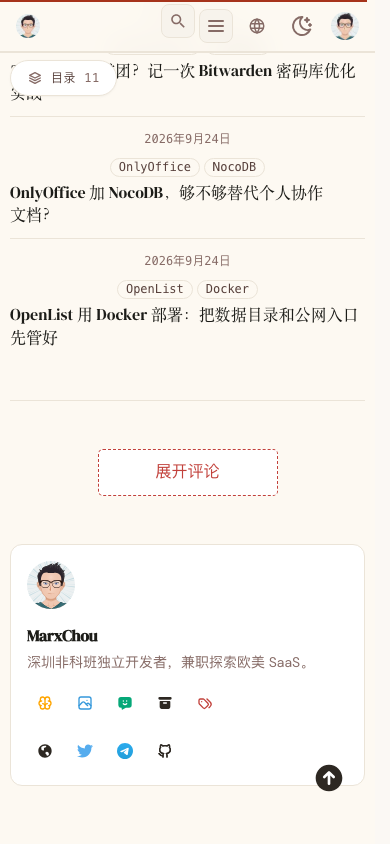
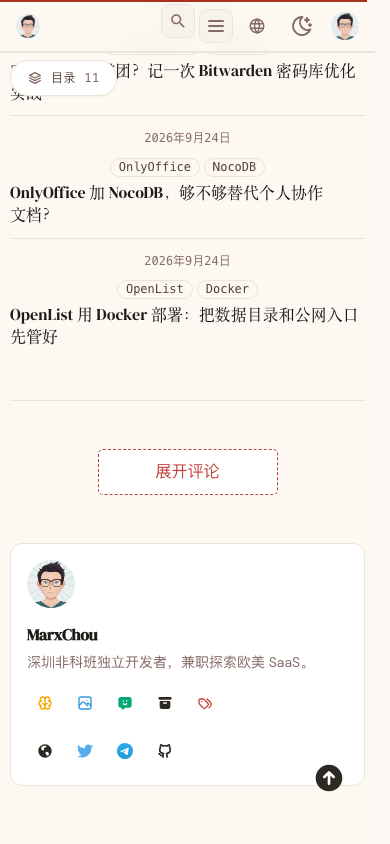
perf(comments): 抽屉交互按需加载，压回 page JS 预算

Changed region(s): [[0.0615, 0.6777, 0.2462, 0.7701], [0.3692, 0.154, 0.5846, 0.1848], [0.0308, 0.3697, 0.1538, 0.4313]]

diff --git a/src/scripts/comment-drawer.ts b/src/scripts/comment-drawer.ts
@@ -1,0 +1,106 @@
+/**
+ * M7-2a：移动评论抽屉的交互层。
+ *
+ * 只在 ≤640 首次点击「展开评论」时被动态 import；桌面内联评论区不会下载这段代码。
+ * 外壳、断点和 Waline 懒加载仍由 WalineComment.astro 持有，这里只负责开合、
+ * 遮罩/Esc、滚动锁与恢复、焦点回填/陷阱。这样评论组件的首屏 JS 不因抽屉变大。
+ */
+
+const MOBILE_QUERY = "(max-width: 640px)";
+const FOCUSABLE =
+    'a[href], button:not([disabled]), input:not([disabled]), textarea:not([disabled]), select:not([disabled]), [tabindex]:not([tabindex="-1"])';
+
+export interface CommentDrawer {
+    toggle: () => void;
+    reset: () => void;
+}
+
+interface DrawerOptions {
+    onShow: () => void;
+    onHide: () => void;
+}
+
+export function initCommentDrawer(options: DrawerOptions): CommentDrawer | null {
+    const drawer = document.getElementById("waline-drawer");
+    if (!drawer) return null;
+
+    let savedScrollY = 0;
+
+    function setClosed() {
+        drawer!.dataset.state = "closed";
+        drawer!.removeAttribute("role");
+        drawer!.removeAttribute("aria-modal");
+        drawer!.removeAttribute("aria-labelledby");
+        document.documentElement.classList.remove("comment-drawer-open");
+    }
+
+    function close(opts: { restoreFocus?: boolean; restoreScroll?: boolean } = {}) {
+        const wasOpen = drawer!.dataset.state === "open";
+        setClosed();
+        options.onHide();
+        if (!wasOpen) return;
+        if (opts.restoreScroll !== false) window.scrollTo(0, savedScrollY);
+        if (opts.restoreFocus !== false) {
+            document.getElementById("waline-toggle")?.focus({ preventScroll: true });
+        }
+    }
+
+    function open() {
+        if (drawer!.dataset.state === "open") return;
+        savedScrollY = window.scrollY;
+        drawer!.dataset.state = "open";
+        drawer!.setAttribute("role", "dialog");
+        drawer!.setAttribute("aria-modal", "true");
+        drawer!.setAttribute("aria-labelledby", "waline-drawer-title");
+        document.documentElement.classList.add("comment-drawer-open");
+        options.onShow();
+        drawer!
+            .querySelector<HTMLButtonElement>(".comment-drawer__close")
+            ?.focus({ preventScroll: true });
+    }
+
+    drawer.querySelectorAll<HTMLElement>("[data-drawer-dismiss]").forEach((el) => {
+        el.addEventListener("click", () => close());
+    });
+
+    // 焦点陷阱：Tab / Shift+Tab 在抽屉内循环。
+    drawer.addEventListener("keydown", (event) => {
+        if (event.key !== "Tab" || drawer.dataset.state !== "open") return;
+        const focusables = Array.from(drawer.querySelectorAll<HTMLElement>(FOCUSABLE)).filter(
+            (el) => el.offsetWidth > 0 || el.offsetHeight > 0,
+        );
+        if (focusables.length === 0) return;
+        const first = focusables[0];
+        const last = focusables[focusables.length - 1];
+        if (event.shiftKey && document.activeElement === first) {
+            event.preventDefault();
+            last.focus();
+        } else if (!event.shiftKey && document.activeElement === last) {
+            event.preventDefault();
+            first.focus();
+        }
+    });
+
+    document.addEventListener("keydown", (event) => {
+        if (event.key !== "Escape" || drawer.dataset.state !== "open") return;
+        event.preventDefault();
+        close();
+    });
+
+    // 视口跨过断点：桌面不该残留 fixed 遮罩。
+    window.matchMedia(MOBILE_QUERY).addEventListener("change", (event) => {
+        if (!event.matches && drawer.dataset.state === "open") {
+            close({ restoreFocus: false });
+        }
+    });
+
+    return {
+        toggle() {
+            if (drawer.dataset.state === "open") close();
+            else open();
+        },
+        reset() {
+            setClosed();
+        },
+    };
+}

diff --git a/src/styles/comments.css b/src/styles/comments.css
@@ -261,6 +261,13 @@
         --waline-bq-color: var(--color-surface-secondary);
         --waline-badge-color: var(--color-accent);
     }
+
+    /* 图片上传仍是「暂未开放」的死入口（imageUploader 直接 reject），
+       其 <label aria-label> 没有合法 role，会在 axe 报 aria-prohibited-attr。
+       移动抽屉直接隐藏，桌面保持原样（本卡不改桌面皮肤）。 */
+    #comment-wrapper #waline label[for="wl-image-upload"] {
+        display: none;
+    }
 }
 
 /* ---------- 降低动态偏好 ---------- */

diff --git a/docs/_reviews/M7-2a/report.md b/docs/_reviews/M7-2a/report.md
@@ -33,9 +33,12 @@
 
 ```
 src/components/UI/WalineComment.astro   抽屉 DOM + 开合逻辑（+ 移动端 Waline 皮肤/DOM 修补）
-src/styles/comments.css                 新文件（~330 行）：外壳零占位基线 + ≤640 抽屉
+src/styles/comments.css                 新文件（~275 行）：外壳零占位基线 + ≤640 抽屉 + 移动端 Waline token
+src/scripts/comment-drawer.ts           新文件：移动抽屉交互的按需模块（开合/焦点/滚动锁）
 e2e/pages-comments.spec.ts              新文件（~420 行）：12 条用例 + 截图门控
 ```
+
+`comment-drawer.ts` 是 operator 收口时补的第 4 个源文件：抽屉交互从主组件拆成动态 import，只在移动端首次点击时下载。否则 WalineComment 的页内 JS 会把 donate/friends/talks 的 page JS 推到 **30.4 KB**（门禁 30 KB），perf 6 页超预算。
 
 未触碰：`MarkdownLayout.astro`、`FriendsContent/TalksContent/DonateContent`、`overlays.css`、`article.css`、`package.json`、Waline server/config、内容 schema、tokens、视觉基线。
 
@@ -105,6 +108,6 @@ corepack pnpm run build:ci
 M72A_SHOTS=1 corepack pnpm exec playwright test e2e/pages-comments.spec.ts --reporter=line
 ```
 
-不跑全量 `pages.visual` / `gates:all` / Linux 容器（按卡面：不在本卡）。
+worker 未跑全量 `pages.visual` / `gates:all` / Linux 容器（按卡面）；operator 收口时已补跑 `gates:all` 8/8、`gates:surfaces` PASS、`type-check` PASS、`build:ci` 477 页、`perf-budget` over=0、本机 `pages.visual` 42 passed。
 
-> 构建说明（D-0150）：迭代用 `astro dev`；收口共 `build:ci` 两次 —— 第一次通过后查出关闭键圆角被 `.post button:focus-visible`（pages/article.css，(0,2,1)）压成 4px，修 CSS 后第二次构建出最终 dist 并跑完本 spec。除这两次外没有再构建。
+> 构建说明（D-0150）：迭代用 `astro dev`；收口共 `build:ci` 四次 —— 首版通过后查出关闭键圆角被 `.post button:focus-visible`（pages/article.css，(0,2,1)）压成 4px，修 CSS 后第二次构建；prettier 后第三次确认 dist=源；operator 为 perf 把抽屉交互拆成动态模块后第四次重建。除这四次外没有再构建。最终 perf：`over=0`，page JS max **30.0 KB**（门禁 30）；本地 `pages.visual` 42 passed。
